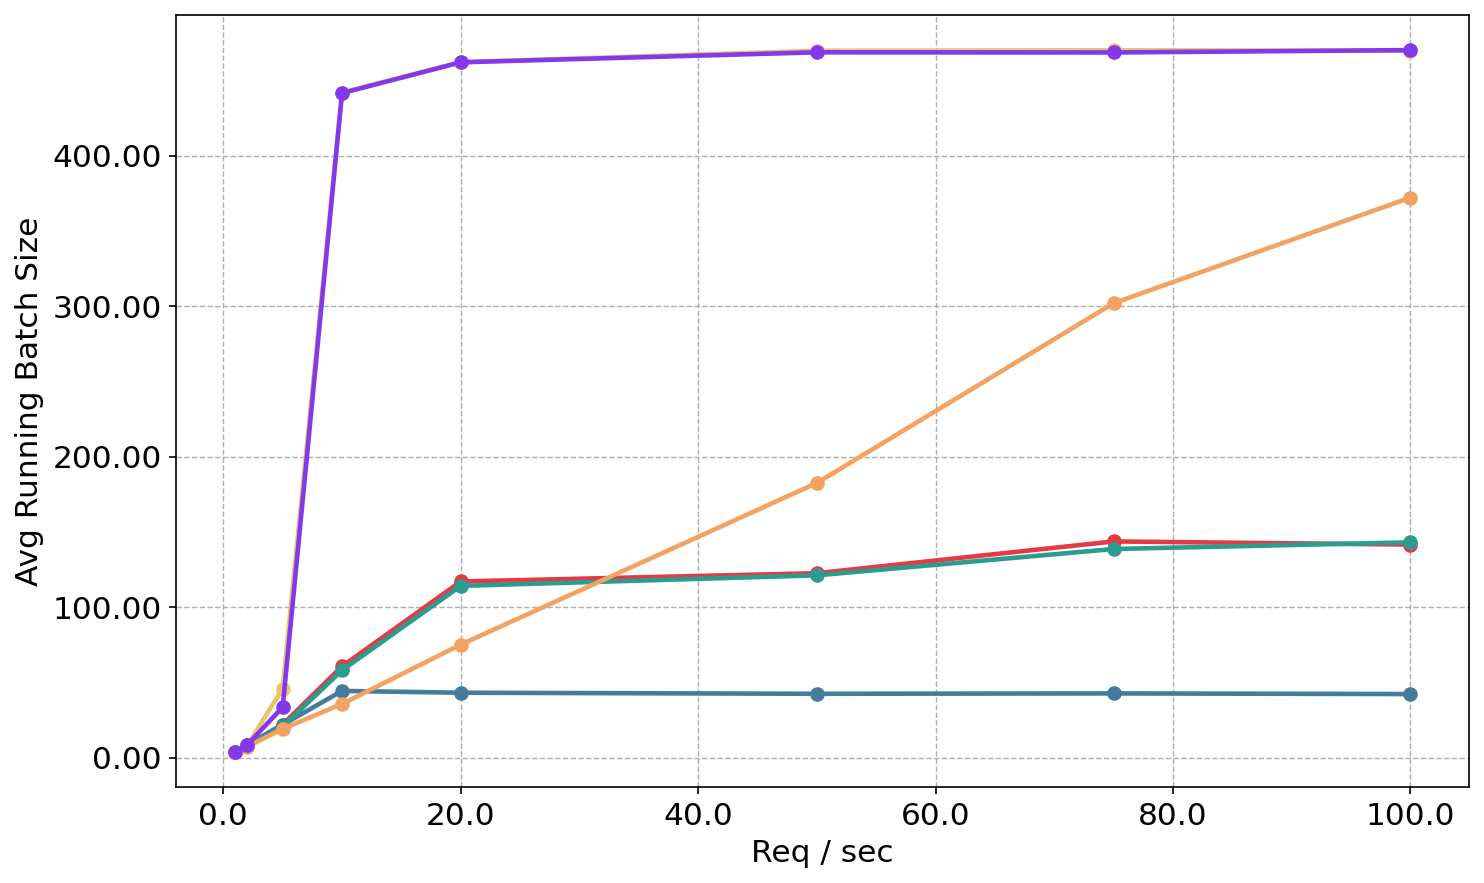
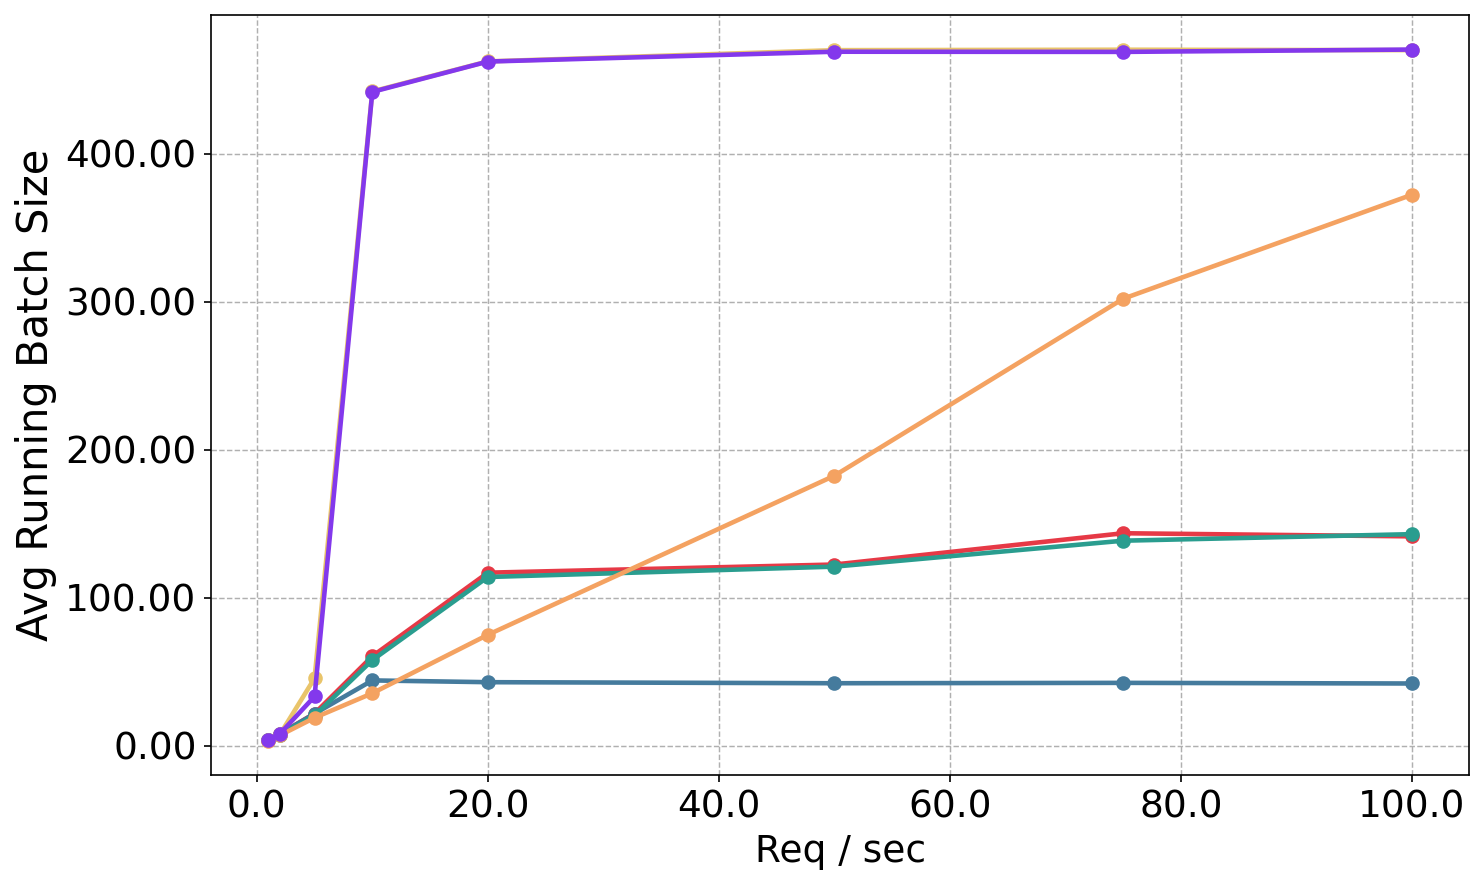
req-per-sec-plots

diff --git a/code/vllm/req_per_sec_logs/plot.py b/code/vllm/req_per_sec_logs/plot.py
@@ -125,12 +125,12 @@ def make_plot(metric_key, ylabel, title, outpath):
             ax.plot(xs, ys, marker="o", linewidth=2.2, markersize=6,
                     color=color, label=label)
 
-    ax.set_xlabel("Req / sec", fontsize=15)
-    ax.set_ylabel(ylabel, fontsize=15)
-    ax.set_xticklabels(ax.get_xticks(), fontsize=15)
+    ax.set_xlabel("Req / sec", fontsize=18)
+    ax.set_ylabel(ylabel, fontsize=20)
+    ax.set_xticklabels(ax.get_xticks(), fontsize=18)
 
     # truncate the y-axis tick labels to 4 decimal places for better visualization
-    ax.set_yticklabels([f"{y:.2f}" for y in ax.get_yticks()], fontsize=15)
+    ax.set_yticklabels([f"{y:.2f}" for y in ax.get_yticks()], fontsize=18)
     if metric_key == "throughput":
         ax.legend(fontsize=15, framealpha=0.3,
                 loc="upper left", ncol=1)
